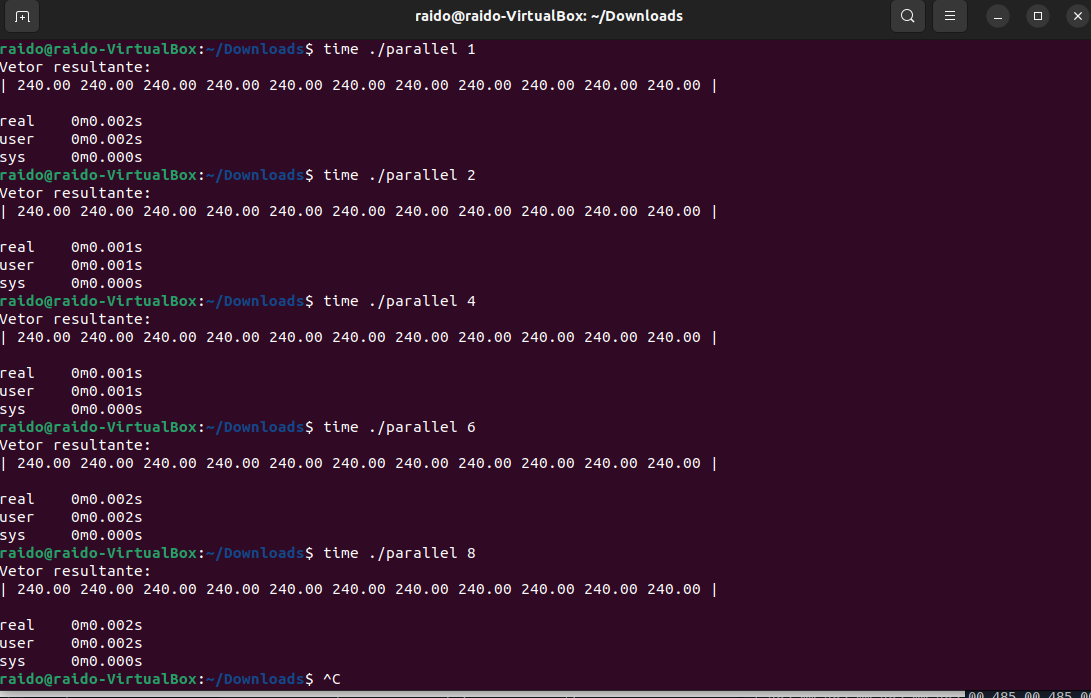
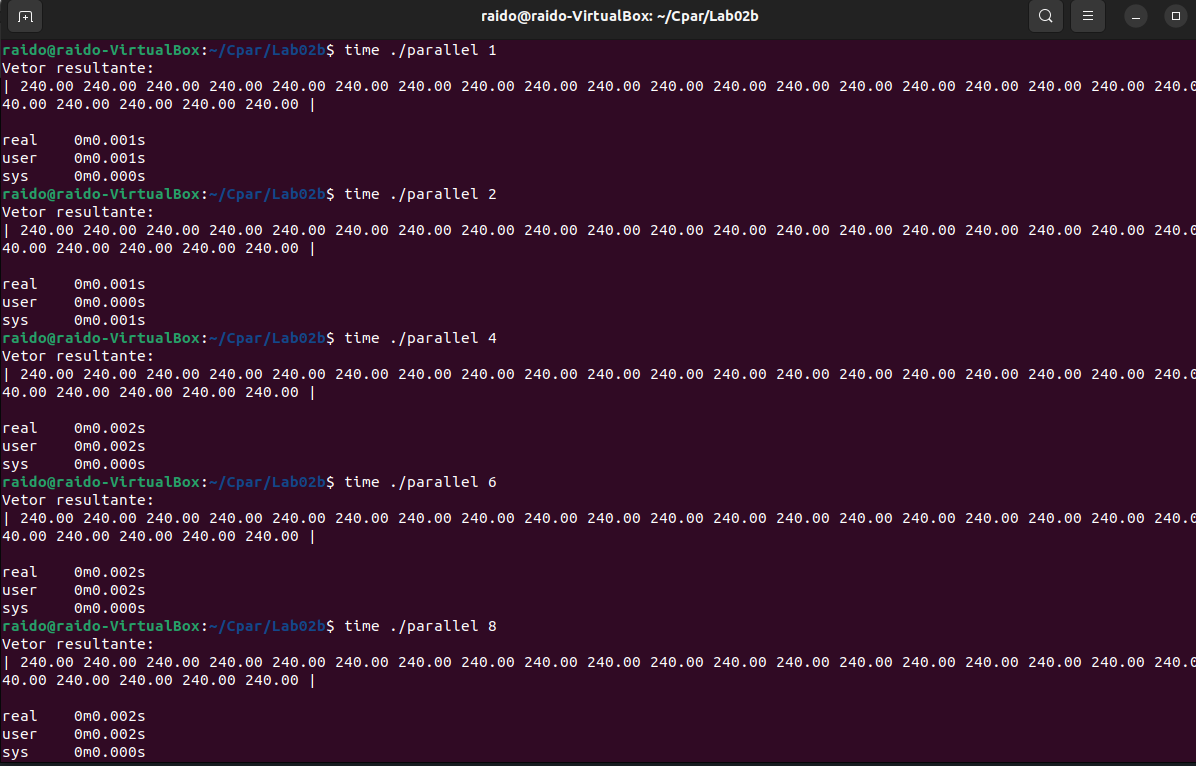
prints de tempo paralelo e serial refeitos e tempos respectivos colocados

diff --git a/Lab02b/serial.c b/Lab02b/serial.c
@@ -39,5 +39,5 @@ int main(int argc, char* argv[]) {
     // O resultado está em y
     Pth_mat_vect();
     printf("Vetor resultante: \n");
-    print_vector(4,y);
+    print_vector(m,y);
 }

diff --git a/Lab02b/parallel.c b/Lab02b/parallel.c
@@ -82,7 +82,7 @@ int main(int argc, char* argv[]) {
 
     // O resultado está em y
     printf("Vetor resultante: \n");
-    print_vector(11,y);
+    print_vector(m,y);
 
 
     return 0;
